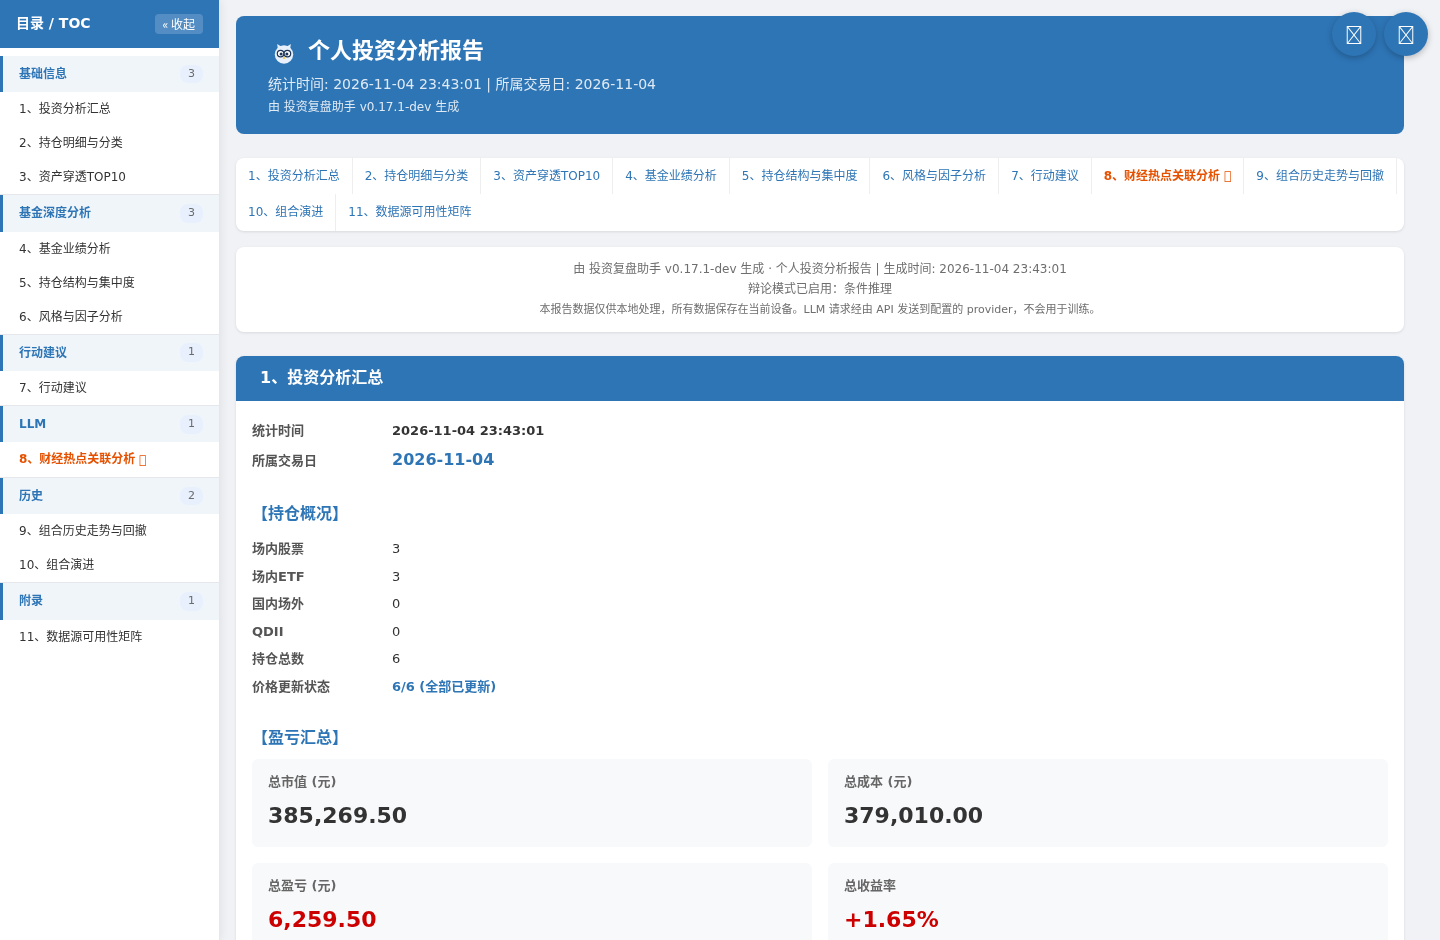
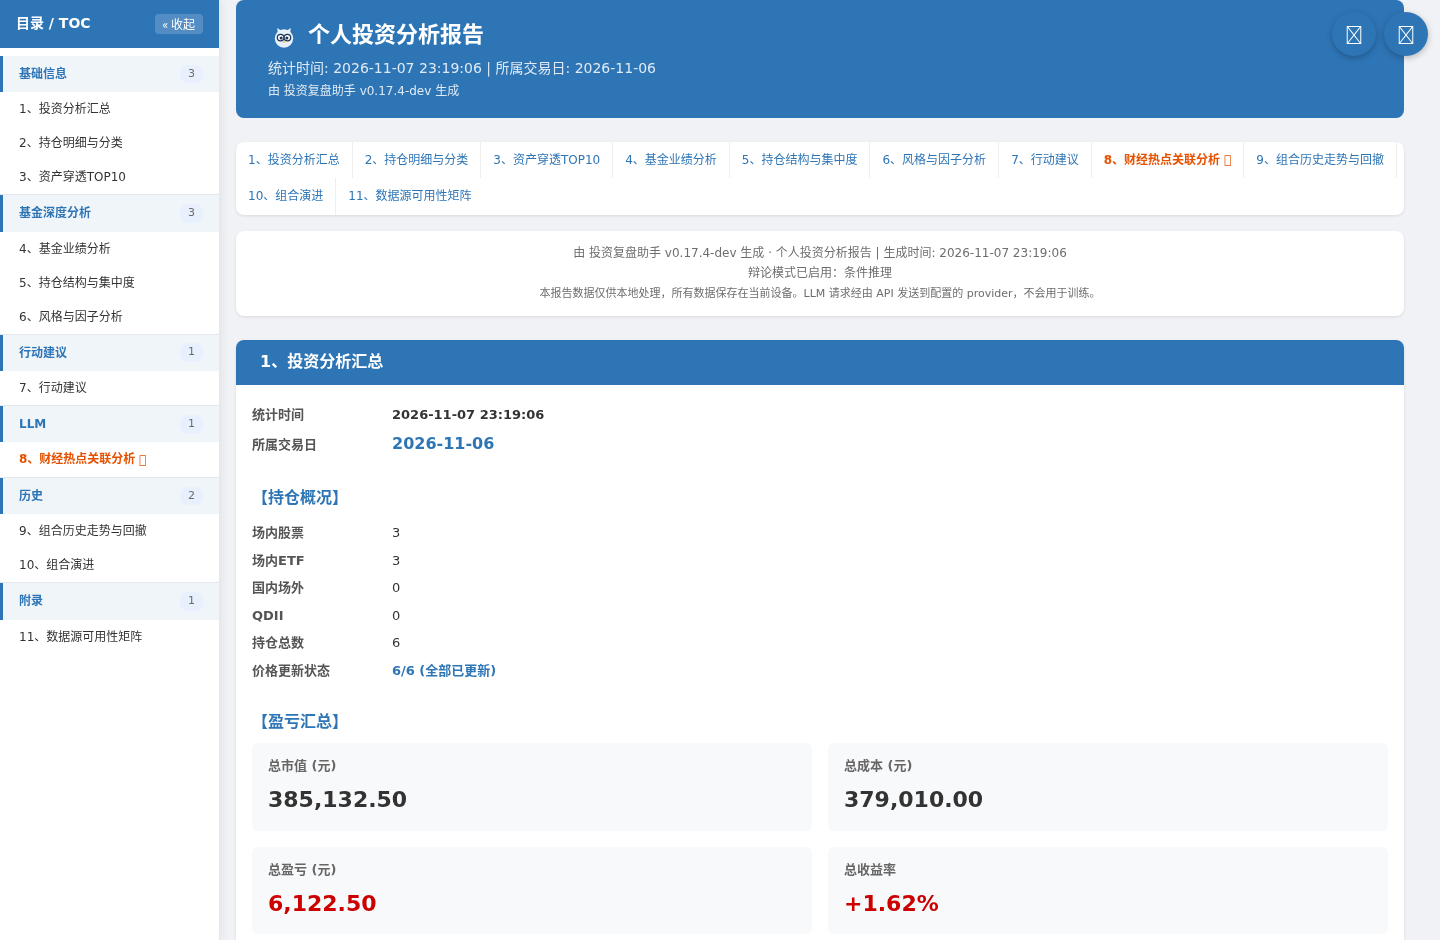
fix(screenshots): 演示工作区旧 src 软链自愈 + 刷新 README 全套配图
- _link_repo_src 校验软链目标，指向旧仓库路径时重指当前 src（此前「链接存在即就绪」
  会让报告渲染落到废路径并抛 TemplateNotFound，重跑 demo 也修不回来），补自愈回归用例
- 9 张配图按既有 make-screenshots 流水线重出（v0.17.4-dev）：TUI/CLI/Web 三面板/
  HTML 报告三图/Excel 页签图；演示持仓为自造公开品种，真实 data/ 零接触

Changed region(s): [[0.1562, 0.2468, 1.0, 0.9872], [0.1562, 0.0, 1.0, 0.2468], [0.5625, 0.8021, 0.6875, 0.9872]]

diff --git a/scripts/_screenshots/demo_workspace.py b/scripts/_screenshots/demo_workspace.py
@@ -172,12 +172,25 @@ def _link_repo_src(demo: Path) -> None:
 
     隔离的是「数据面」（``data/`` / ``reports/``），代码与模板资产不复制——
     否则演示根会变成第二份源码树，容易与仓库漂移。
+
+    链接存在但指向**别处**（仓库被移动/改名后遗留的旧链）时重指本仓：旧链会让模板解析
+    跑到废路径（典型症状 `TemplateNotFound: report_template.html`），而「链接存在就算就绪」
+    的判断会把这种状态当成已完成，重跑 `demo` 也修不回来。重指后目录联接（Windows
+    真实目录）与已正确的软链均原样保留。
     """
     import os
 
     link = demo / "src"
     target = REPO_ROOT / "src"
-    if link.is_symlink() or link.exists():
+    if link.is_symlink():
+        try:
+            current = Path(os.readlink(link))
+        except OSError:  # 读不到链接目标（平台差异）时不冒险动它
+            return
+        if current.resolve() == target.resolve():
+            return
+        link.unlink()
+    elif link.exists():
         return
     try:
         os.symlink(target, link, target_is_directory=True)

diff --git a/src/test/unit/scripts/test_make_screenshots.py b/src/test/unit/scripts/test_make_screenshots.py
@@ -113,6 +113,25 @@ class TestDemoWorkspace:
         assert "report" in command
         assert command[-1] == "--yes"
 
+    @pytest.mark.unit_scripts
+    def test_stale_src_symlink_is_repointed_to_current_repo(self, demo, tmp_path):
+        """回归：演示根 src 软链指向旧仓库路径时，重跑 demo 必须自愈。
+
+        仓库挪位置后旧链仍在，旧实现把「链接存在」当成就绪直接跳过，报告渲染于是
+        跑到废路径上（`TemplateNotFound: report_template.html`），重跑 demo 也修不好。
+        """
+        workspace = demo.build(tmp_path / "shots")
+        link = workspace / "src"
+        link.unlink()
+        stale = tmp_path / "moved-away-repo" / "src"
+        stale.mkdir(parents=True)
+        link.symlink_to(stale, target_is_directory=True)
+
+        demo.build(tmp_path / "shots")
+
+        assert link.is_symlink()
+        assert link.resolve() == (demo.REPO_ROOT / "src").resolve()
+
 
 class TestCliText:
     """CLI 输出清洗：剥时间戳、进度回车只留末段、抹绝对路径、截尾。"""

diff --git a/docs/managements/test-coverage.md b/docs/managements/test-coverage.md
@@ -12,16 +12,16 @@
 <!-- mode-count-table:start -->
 | `--mode` 值 | 覆盖项数 | 典型耗时 |
 |:------------|:--------:|:--------:|
-| `unit` | **13081** | ~1min |
-| `standard` | **11827** | ~28s |
+| `unit` | **13082** | ~1min |
+| `standard` | **11828** | ~28s |
 | `scenario` | **293** | ~6s |
 | `regression` | **293** | ~14s |
-| `dev-verify` | **9232** | ~1min |
-| `verify` | **13083** | ~29s |
+| `dev-verify` | **9233** | ~1min |
+| `verify` | **13084** | ~29s |
 | `integration` | **344** | ~14s |
 | `edge` | **1186** | ~12s |
 | `data` | **70** | ~5s |
-| `all` | **13427** | ~28s |
+| `all` | **13428** | ~28s |
 | `smoke` | **26** | ~4s |
 | `report` | **2851** | ~12s |
 | `all_no_unit` | **346** | ~11s |
@@ -149,7 +149,7 @@
 
 | 标记 | 覆盖模块 | 覆盖项数 |
 |:-------|:---------|:--------:|
-| `unit`（父标记） | 全部 unit 子标记实测（collect 快照） | 13,081 |
+| `unit`（父标记） | 全部 unit 子标记实测（collect 快照） | 13,082 |
 | ├─ `unit_providers` | 数据源 Provider（腾讯/东方财富/天天基金/巨潮资讯等，含 push2 估值字段 PE/PB 提取 + 行业数据 REST 接口、push2his 指数 K 线映射与解析、非有限数值归一防线 safe_num 拦截、财报备源公告列表/文种归类/报告期推导/PDF 解析接缝、传输级失败连接级重试与重试耗尽上抛契约、挂起型不重试判据、provider 失败原因载体的消费即清与线程隔离；cassette 回放的季度窗口锚定录制时点故不随日期时移变红；F10 费用页费率表解析与载荷准入） | 598 |
 | ├─ `unit_fetcher` | 数据获取调度（价格/指数/基金/行业/API 异常/熔断预检/冷却恢复/链路失败原因采集 FailureDiagnostics/数据源适配契约三段式与行情域三源等价性/估值字段网关（Provider Chain 路由 + push2 会话复用与按代码去重）/财务指标链路（主源→解析支路降级）+ 持仓基本面章（财务指标/财报摘要）装配与合并页签/管线契约台账/财报域备源（适配器登记/命名空间隔离/主源可用时备源零调用、传输级失败在编排层的降级护栏（索引转备源/章节清单回退偏好名）/HHI 集中度优化收敛 metrics_risk.hhi 唯一原语（幂等归一/退化语义一致）/申赎费率取数编排（F10→akshare 备链→过期缓存→配置兜底的四级降级与会话复用）） | 714 |
 | ├─ `unit_llm` | LLM 模块（API 路由/熔断/指纹/骨架/prompts/generators/llm_content 写入/Token 成本跟踪/**合规声明集中注入（幂等叠加/角色追加项/空 prompt 保护/call_llm 单一漏斗接线）/**报告深度档位（档位表结构派生自注册表/非法值回落/只收窄不放大已关模块/新闻下界）/**生成后自检（开关关闭零调用/上游无产出跳过/固定非质量保证尾注/调用异常不外抛/注册纪律不在并行表/指纹内容寻址）**/降级回退/DeepSeek 峰谷定价含时段判定/时段/时区/周末与法定节假日全天闲时规则设置/V4.1-Flash 正式模型名定价与 effort 族判定/Kimi k2.6/k3 定价锁定（单价/缓存命中价/无峰谷加成）/Kimi thinking 支持判定与默认开思考显式禁用安全网/信号预消化（资金流方向标注与排名/信号块/缓存后缀）/结构化决策头提示词契约（开关关闭逐字节不变/契约可解析/指纹换键）/模块指纹唯一事实来源同源校验（含提示词承载段与辩论综合键全文进键）/穿透占比严格读契约字段且缺失告警）/申购限购约束块注入（附录第 4 段组装守卫与缺省逐字节、四模块+辩论 pro/con/synthesis+自检+新闻批量成对、指纹三态与接线前基线、预检/写两侧同源））/429 限速诊断日志（两级并发配置回显与按「是否已到底」给建议、endpoint_key 透传接线（api_base 层 + 多链条目名下传至重试骨架）+ 429 回显 min_interval 现值 + 惰性装载同源取策略））/持仓变动提示词注入与归因（提取同源/四模块+辩论+自检附录携带/指纹条件并入/归因准入、信号窗与失败登记） | 1,671 |
@@ -160,7 +160,7 @@
 | ├─ `unit_analysis` | 分析计算（流动性/再平衡/汇率/口径修正/回撤预警/回撤事件/因子暴露/行业 Beta/相关性矩阵/危机区间标注/尾部风险统计/组合演进/快照差异摘要/行动建议/交易纪律/调仓建议可行化层/收益归因/成本流水（XIRR/成本分档/分红累计）/持仓成本区间位置（成本价近 20/260 交易日价格区间百分位）/估值分位（价格分位代理）/市场温度（三因子合成）/量化指标（夏普/卡玛/集中度/胜率/换手/风险贡献/波动率/组合 Beta）/月度收益日历（按月聚合/截窗基线/胜亏平与连亏统计/双口径字段）/调仓 What-if 时序回测/财务指标全文解析（压平正文锚点提取）/景气度框架评分（含基金 ROE 推演值计分与三处推演标注、④维场外类型默认档与配置口径计分）/持仓变动复盘（事件抽取与净额口径/账户重排识别/意图对账与交易日模式）/交易成本模型（FIFO 批次判档/金额分档/临界持有期与零费率边缘）/基准指数三阶映射）） | 1,252 |
 | ├─ `unit_cli` | CLI 命令行模式（参数解析/路由/退出码/日志/view-logs 子命令/whatif 子命令/doctor 子命令（--offline/--timeout、config 之前分派、_EXIT_PARTIAL 退出码）/模块入口退出码传递 run_cli/报告完成后 LLM 成本与缓存命中率摘要方法调用/功能开关命令行通道：`--experiment`（只开实验项的简写，注册表驱动解析与本次运行增量启用，含早返回命令）与 `--feature NAME=VALUE`（全域双向、可重复、仅本次运行不写盘、未知名与取值非法即时报错、在 `--experiment` 之后应用故可覆盖其隐式置开）/生效日 argparse 类型钩子（共享层归一化前置校验）） | 203 |
 | ├─ `unit_ui` | TUI 交互（菜单/键盘/进度/错误提示/日志可视化查看日志与健康历史/受开关约束的菜单项门控 `_apply_feature_gates`（含默认配置下 `[T]` 即在菜单中）/文本显示宽度与盒线面板等宽不变式） | 550 |
-| ├─ `unit_scripts` | scripts/ 工程脚本（历史痕迹检查工具自检/豁免/补强模式/回归场景元描述豁免/多行 docstring 提取/任务编号一致性检查/语义命名索引双向校验/3 类暗号匹配自检/机器信息采集与耗时表格渲染/环境耗时对照文档自动更新/失败用例提取 data-jsonblob 回归/编码与 locale 自检（`requirements.txt` BOM 约定 + 复刻旧 pip 解码次序 + PEP 597 严格档豁免）/probe 统一入口（registry 分发/未知 target 退出 2/csi·push2 子模块契约面）/AI 幻觉率采样拆包契约（数值检查 4 元组解包透出 corrections/组合数值委托 _utils 唯一实现）/单文件行数红线守护（阈值边界/豁免登记与回落提示/退出码契约/-v 清单派生）/因子动物园目录评测（目录冻结/三指标阈值恰等边界/判定三态/注入探针离线与边缘 fail-closed）） | 1672 |
+| ├─ `unit_scripts` | scripts/ 工程脚本（历史痕迹检查工具自检/豁免/补强模式/回归场景元描述豁免/多行 docstring 提取/任务编号一致性检查/语义命名索引双向校验/3 类暗号匹配自检/机器信息采集与耗时表格渲染/环境耗时对照文档自动更新/失败用例提取 data-jsonblob 回归/编码与 locale 自检（`requirements.txt` BOM 约定 + 复刻旧 pip 解码次序 + PEP 597 严格档豁免）/probe 统一入口（registry 分发/未知 target 退出 2/csi·push2 子模块契约面）/AI 幻觉率采样拆包契约（数值检查 4 元组解包透出 corrections/组合数值委托 _utils 唯一实现）/单文件行数红线守护（阈值边界/豁免登记与回落提示/退出码契约/-v 清单派生）/因子动物园目录评测（目录冻结/三指标阈值恰等边界/判定三态/注入探针离线与边缘 fail-closed）） | 1673 |
 | ├─ `unit_web` | Web 服务（启动防护 output_dir 写锁/端口占用、上传安全、进度事件缓冲、RunManager 运行管理、Flask 路由全链路、日志/健康历史端点（/api/logs + /api/health/history + /api/doctor）、Web 配置编辑（镜像 TUI 可编辑配置全集/白名单/备份/写入分派/功能开关白名单键集恒等于注册表键集、`features` 面（四组取值 + 显示名标签 + 产物影响清单 + 实验项清单）、常规开关经面板关闭后落 `features.json` 生效）、状态区系统信息组装（含持仓/输出/新闻上限/匿名化/隐私摘要/自检卡片可见性（默认配置下即渲染，且不再带实验性标签））、首页标题应用名称+版本、Web 冒烟脚本载体、短缓存并发安全（history/health 线程锁保护读写段/TTL 重算/?fresh=1 绕过/8 线程并发写）+ 调仓 What-if 接口（test_whatif_api*.py：文件来源/生效日归一/错误信封/互斥 429）+ 缓存管理接口（test_cache_api.py：统计只读/前缀保序/清理同源守卫）+ 五区页签结构契约（test_web_static_serving.py::TestTabWorkbenchStructure）） | 422 |
 | └─ `unit_qa` | 报告对话式追问（`src/python/qa/`：报告上下文提取/会话服务/轮数与输入上限/用量独立记账 + Web 路由门与报告页追问接线） | 100 |
 ## 跨类标记

diff --git a/docs/managements/folders.md b/docs/managements/folders.md
@@ -12,14 +12,14 @@
 | 主程序代码 | Python | 422 | 117,110 | `src/` 下所有 `.py`（不含测试：`src/__init__.py` 顶层包标记 + `src/python/` 下 15 个 `__init__.py`，含 `web/` 服务层；近期新增 `providers/tiantian_purchase.py` 天天基金申购状态总表 provider + `fetcher/fund_purchase.py` 申购状态取数编排（双链路/准入/会话复用） + `core/jsonl_store.py` JSONL 原子原语 + `core/signal_ledger.py` 确定性信号账本 + `report/signal_record.py` 信号登记适配器 + `core/num_utils.py` 数值归一原语 + `core/doctor.py` 系统自检 + `core/cassette.py` 请求回放引擎 + `core/datasource_credential.py` 数据源凭据声明 + `fetcher/source_adapter.py` 适配契约 + `fetcher/quote_adapters.py` 行情域适配器 + `llm/module_fingerprint.py` 模块指纹唯一事实来源 + `report/_experimental_seams.py` 实验挂载点 + `report/holdings_freshness.py` 持仓报告期时效判定 + `report/experimental_notice.py` 实验功能清单语句单源 + `core/trading_calendar.py` 交易日历原语（时间距离一律以交易日计） + `providers/datasink.py` 全文本财报 provider（密钥/限速/配额） + `providers/hithink.py` 同花顺金融数据服务 provider（A 股行情/财务/基金/情绪面；凭据/qps 限速/信封错误码） + `fetcher/financial_report.py` 财报取数编排 + `fetcher/report_adapters.py` 财报域适配器 + `report/financial_report_digest.py` 财报摘要章节装配 + `providers/akshare_financial.py` 结构化财务指标主源 + `fetcher/financial_indicator_adapters.py` 财务指标域适配器 + `core/code_symbols.py::to_fmp_symbol` 共享符号映射 + `providers/utils.py::run_with_timeout` 共享取数超时原语 + `analysis/financial_indicator_extract.py` 财务指标全文解析（压平正文锚点提取，备用支路） + `fetcher/financial_indicator.py` 财务指标多期取数编排 + `analysis/financial_indicator.py` 财务指标派生（质量档/趋势/当前 PE·PB） + `report/financial_indicator.py` 财务指标章装配 + `report/holdings_detail_sheet.py` 持仓明细与分类 Excel 页签 + `report/position_structure_sheet.py` 持仓结构与集中度 Excel 页签 + `report/fundamental_snapshot_sheet.py` 持仓基本面 Excel 页签（三者均为章节合并写入器） + `llm/compliance.py` 合规声明集中注入（幂等叠加，单一漏斗覆盖全模块）） |
 | HTML 报告模板 | HTML | 26 | 5,490 | `src/static/tmpl/report_template.html` + `whatif_template.html`（调仓 What-if 独立 HTML 页）+ `partials/`（章节级/区块级 partial，主模板按 TOC 六组经 Jinja include 拆入，清单见目录树 `partials/` 节点） |
 | 架构图示 | SVG | 4 | 396 | `src/static/` README 架构图（architecture 三渠道→引擎→双报告、llm-chain Provider 链式分发、capabilities 九大功能域总览、owl-mascot 吉祥物猫头鹰「守望」）+ 截图 7 张 PNG（报告实景 `report-overview`/`report-toc`/`report-charts` + 界面实景 `tui-menu`/`web-workbench`/`web-config`/`cli-report`，不计入本行） |
-| 辅助脚本 | Python | 143 | 29,349 | `scripts/`（启动脚本 + CLI 命令行包装、测试驱动、工具检查、任务编号检查、性能测试、LLM 幻觉率评测与因子目录评测、测试覆盖计数、代码/文档历史痕迹与结构性冗余检查、视觉资产（社交预览图/架构图体检）、语义命名索引校验、Claude Code hook 安装/校验、Web 冒烟脚本、push2 连通性诊断、SVG 架构图检查） |
-| 源代码合计 | — | 595 | 152,345 | 主程序 + 模板 + 脚本 + SVG |
-| 测试代码 | Python | 711 | 196,180 | `src/test/` 所有 `.py` 文件（含近期 ruff format 全仓重排） |
-| 测试用例 | — | — | 13,427 个 | `pytest --collect-only` 统计（`scripts/test-collect-coverage.py` 实时收集快照，不含 opt-in live 套件） |
+| 辅助脚本 | Python | 143 | 29,362 | `scripts/`（启动脚本 + CLI 命令行包装、测试驱动、工具检查、任务编号检查、性能测试、LLM 幻觉率评测与因子目录评测、测试覆盖计数、代码/文档历史痕迹与结构性冗余检查、视觉资产（社交预览图/架构图体检）、语义命名索引校验、Claude Code hook 安装/校验、Web 冒烟脚本、push2 连通性诊断、SVG 架构图检查） |
+| 源代码合计 | — | 595 | 152,358 | 主程序 + 模板 + 脚本 + SVG |
+| 测试代码 | Python | 711 | 196,199 | `src/test/` 所有 `.py` 文件（含近期 ruff format 全仓重排） |
+| 测试用例 | — | — | 13,428 个 | `pytest --collect-only` 统计（`scripts/test-collect-coverage.py` 实时收集快照，不含 opt-in live 套件） |
 | 用户文档 | Markdown | 15 | 7,043 | 含 README.md；行数为 README + manuals 之和 |
 | ├ manuals/ | 用户手册分册 | 14 | 6,810 | 配置/faq/快速上手/TUI/CLI/Web 三种模式指南等 |
-| 项目文档 | Markdown | 213 | 73,179 | 含 CLAUDE.md；md 口径为 CLAUDE.md + `managements/` + `plan/` + 版本归档之和（分项见下方三行），py/txt 不计行 |
-| ├ managements/ | 管理文档 | 13 | 14,048 | 变更日志/目录树/测试计划/技术设计/开发者指南等 |
+| 项目文档 | Markdown | 213 | 73,184 | 含 CLAUDE.md；md 口径为 CLAUDE.md + `managements/` + `plan/` + 版本归档之和（分项见下方三行），py/txt 不计行 |
+| ├ managements/ | 管理文档 | 13 | 14,053 | 变更日志/目录树/测试计划/技术设计/开发者指南等 |
 | ├ archive/ | 版本归档 | 193 | 57,883 | 各版本 changelog/plan/review-findings 与设计文档归档（含 Vibe-Trading/gs-quant/TradingAgents 借鉴批候选研究、基金申购限购三份设计与 LLM 成本调节/自检/源指定设计） |
 | ├ plan/ | 中间设计文件 | 6 | ~1152 | 在办设计文档（扁平存放）：Jev 新闻关联判定（对照评测 + 类型化通道设计）+ 决策跨期反思闭环设计 + TUI 交互改进（议题 + 第一/二批实施方案） |
 | └ tmp/ | 临时文件 | — | — | 调试产物、迁移暂存（git 忽略，不计入统计） |

diff --git a/docs/managements/review-findings.md b/docs/managements/review-findings.md
@@ -1,6 +1,6 @@
 # 投资复盘助手 - 自我审查问题记录
 > 文档版本：0.17.4-dev
-> **编号源**：`rf-next = 1063`（新增问题提出后更新为 +1；已用最大 rf-1062，递增保证唯一，归档不回收。若与历史归档冲突，运行 `scripts/check-task-numbering.py` 校验）
+> **编号源**：`rf-next = 1064`（新增问题提出后更新为 +1；已用最大 rf-1063，递增保证唯一，归档不回收。若与历史归档冲突，运行 `scripts/check-task-numbering.py` 校验）
 ---
 
 ## 当前待处理问题
@@ -62,6 +62,7 @@
 | **rf-1060** | 四处技术债：①`generators_news._first_provider_name` 无任何调用方；②`_render_template` 的 `self_review_block` 形参不被函数体使用（渲染时自行取值，调用方传入不生效）；③`write_html_report` 的 `force_llm` 形参无任何调用方；④HTML 阶段收口（总值记录 + 慢段告警）在 full/both 两条路径各写一份，两处口径不一致（both 侧无慢段告警） | 删除死函数/死形参并同步收敛调用点；收口逻辑抽到 `html_writer.close_html_generation_stage` 单源共用 |
 | **rf-1061** | `excel_writer.mask_workbook_text` 遍历 `ws.iter_rows()` 时未跳过 `MergedCell`：被合并吞掉的从属单元格 `value` 只读，清扫命中一处带笔名的合并行即抛 `AttributeError`，整份报告生成失败（匿名化 full 模式 + 含合并单元格页签的组合必现） | 清扫前 `isinstance(cell, MergedCell)` 跳过从属单元格（锚点本身会被遍历到，不漏清扫）；新增合并区域回归用例 |
 | **rf-1062** | 六处同构副本散在不同模块，改一处另一处易漏（口径漂移）：①`atomic_write` 文本/二进制写入本体逐字重复；②`excel_writer` 小计/总计行仅底色不同；③`text_layout` 终端列/行探测同构；④`_json_patch` dict/array 区块括号平衡替换同构；⑤`_report_helpers` 组合演进/快照差异注入同构；⑥`providers/sina` 与 `report/summary` 的 A 股/美股指数取数与渲染同构 | 各抽一份参数化本体（`_write_atomic` / `_write_summary_row` / `_terminal_dimension` / `_replace_value_block` / `_inject_optional_section` / `_fetch_sina_indices` / `_write_index_group`），对外的公开函数签名与输出逐字不变 |
+| **rf-1063** | 截图演示工作区的 `src/` 软链指向旧仓库路径时不自愈：仓库挪位置后旧链仍在，`_link_repo_src` 把「链接存在」当作就绪直接返回，报告渲染跑到废路径（`TemplateNotFound: report_template.html`），重跑 `demo` 也修不回来，只能手工删链 | 软链目标与当前 `REPO_ROOT/src` 不一致时先删链再重指（读不到目标则不动）；补「旧指向→重跑 demo→自愈」回归用例 |
 
 ### 归档档案
 - [`archived_review-findings.0.17.x.md`](../archive/v0.17.x/archived_review-findings.0.17.x.md) — v0.17.x（2026-11-04 ~ 2026-11-06）

diff --git a/docs/managements/changelog.md b/docs/managements/changelog.md
@@ -52,6 +52,10 @@
     「格式异常行是否告警」不同（美股链路保留该告警，A 股原先就没有，不借重构改行为）；
   - `report/summary.py` / `fetcher/index.py` —— 指数渲染共享 `_write_index_group`（当日标题
     「本日」/「最新」参数化，保持两个市场的原有文案）、指数取数共享 `_fetch_with_session_cache`。
+- **截图演示工作区重建不再被旧软链卡住**（rf-1063）：仓库换目录后 `demo/src` 的旧指向仍在，`_link_repo_src`
+  把「链接存在」当就绪直接跳过，报告渲染于是落到废路径（`TemplateNotFound: report_template.html`），
+  重跑 `demo` 也修不好、只能手工删链；现校验链接目标与当前 `REPO_ROOT/src` 是否一致，不一致则重指，
+  并补「旧指向 → 重跑 demo → 自愈」回归用例。
 
 ## 归档
 
